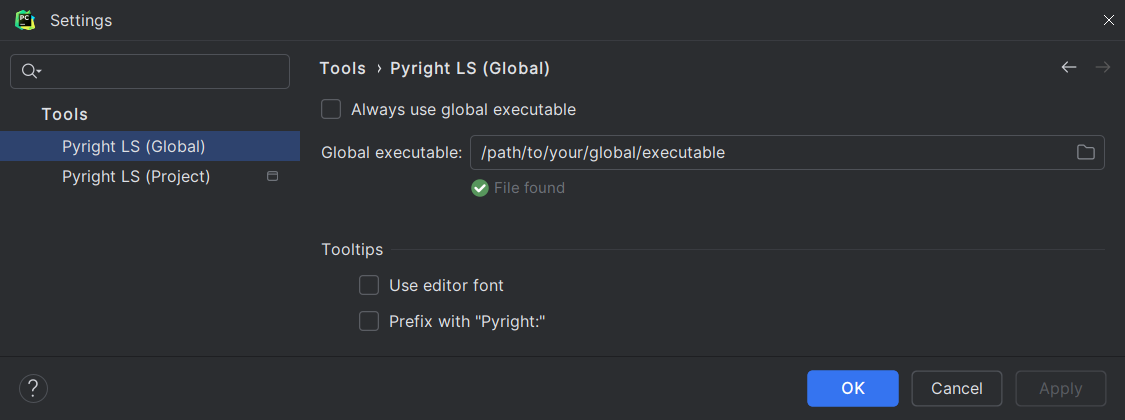
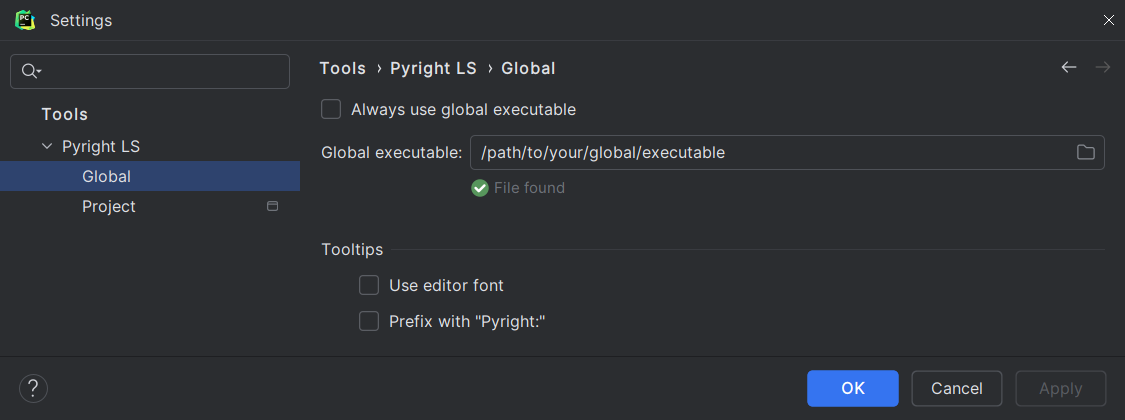
Place two configuration panels under the same group

Changed region(s): [[0.0, 0.3095, 0.28, 0.5262], [0.4044, 0.1238, 0.4978, 0.1857]]

diff --git a/README.md b/README.md
@@ -22,7 +22,7 @@ install [the <i>Pyright</i> plugin][3] instead.
 ## Usage
 
 Go to <b>Settings</b> | <b>Tools</b> |
-<b>Pyright LS (Global)</b> / <b>Pyright LS (Project)</b> and
+<b>Pyright LS</b> | <b>Global</b> / <b>Project</b> and
 set the path to your Pyright language server executable.
 It is typically named `pyright-langserver`/`pyright-python-langserver`.
 

diff --git a/docs/index.md b/docs/index.md
@@ -16,7 +16,7 @@ since 2023.2. This means that PyCharm Community users cannot use it.
 ## Usage
 
 Go to <b>Settings</b> | <b>Tools</b> |
-<b>Pyright LS (Global)</b> / <b>Pyright LS (Project)</b>
+<b>Pyright LS</b> | <b>Global</b> / <b>Project</b>
 and set the path to [your Pyright language server executable][4].
 
 === "Global"

diff --git a/CHANGELOG.md b/CHANGELOG.md
@@ -13,7 +13,7 @@ For code changes, see [`CHANGELOG_CODE.md`][_-1].
 
 ### Added
 
-* The icon for `pyrightconfig.json` files are now replaced with Pyright logos.
+* The icon for `pyrightconfig.json` is now replaced with Pyright's logo.
 
 
 ## [1.0.1] - 2024-07-14
